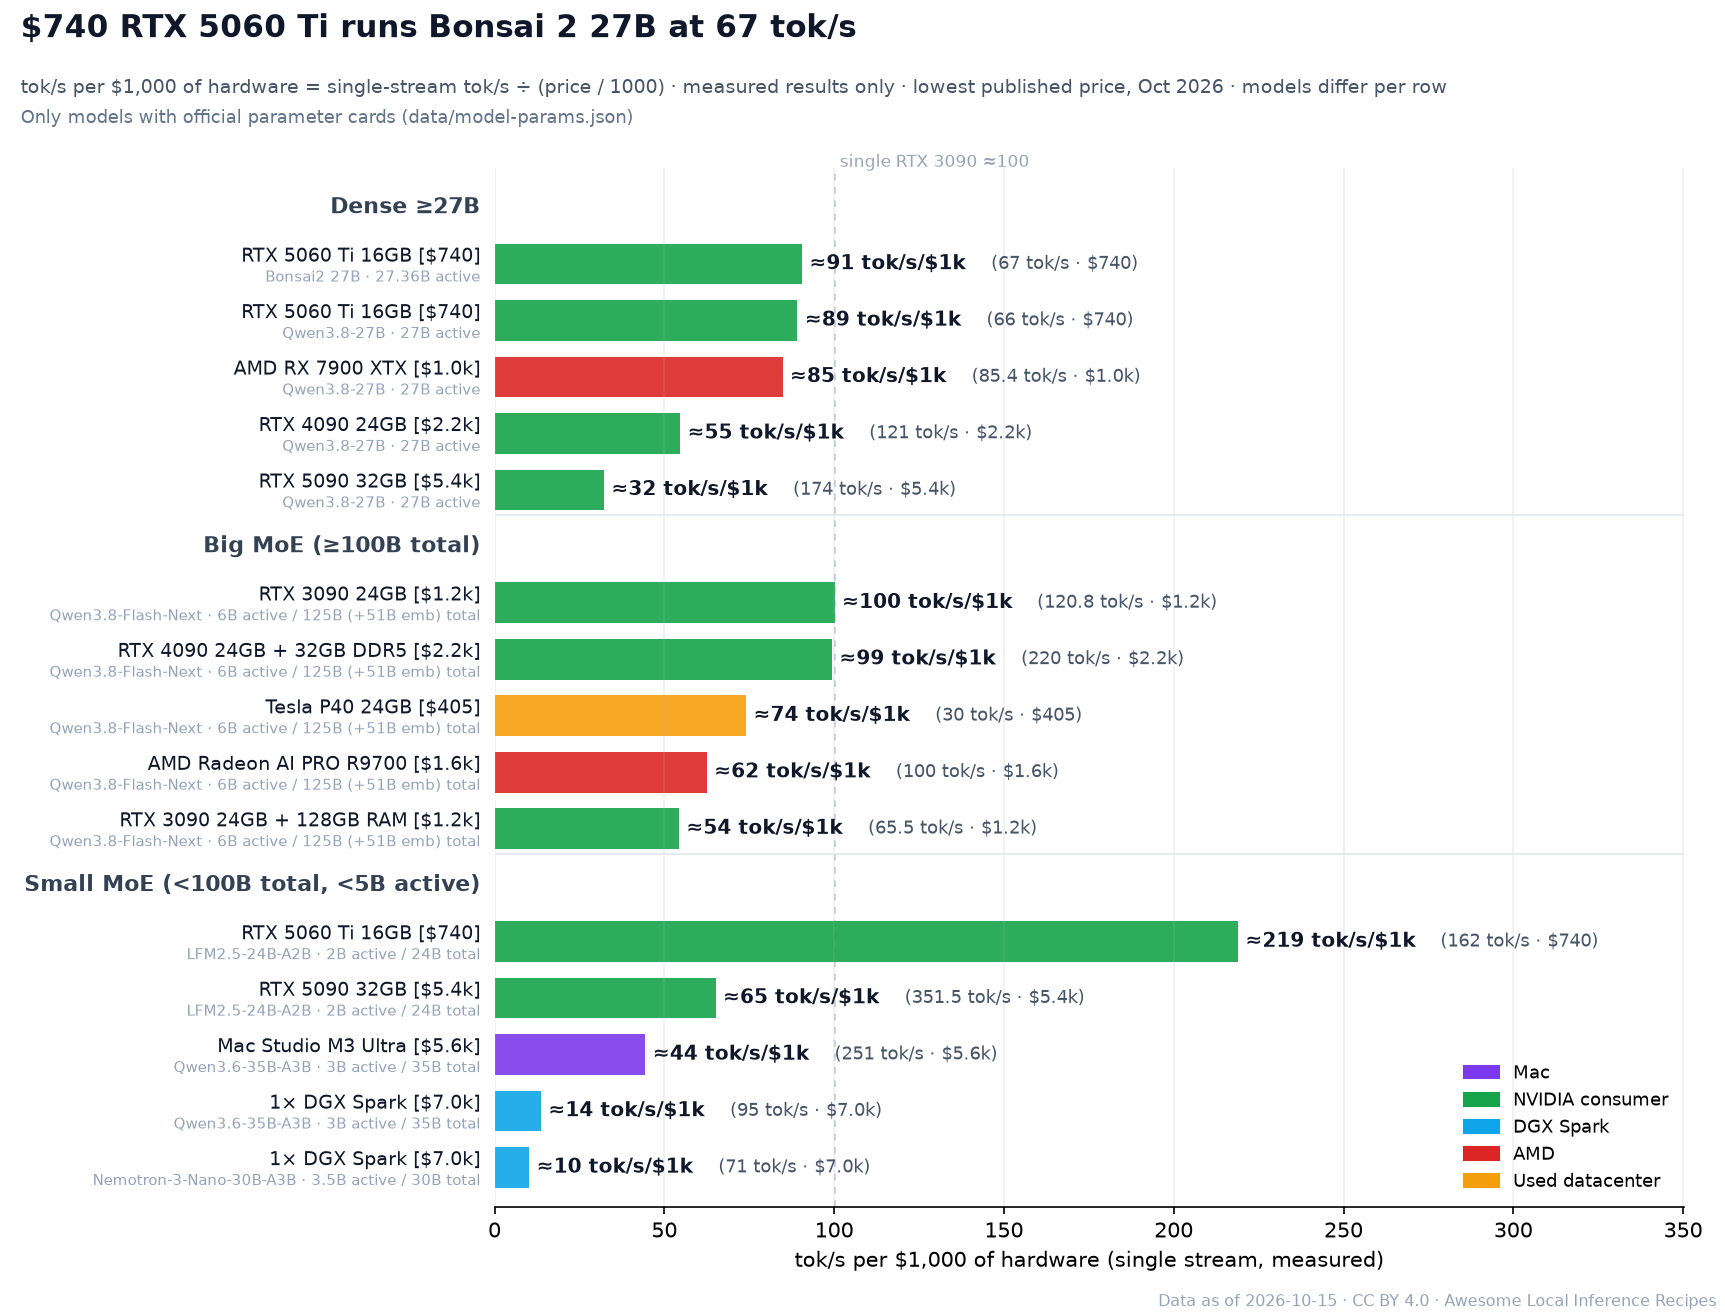
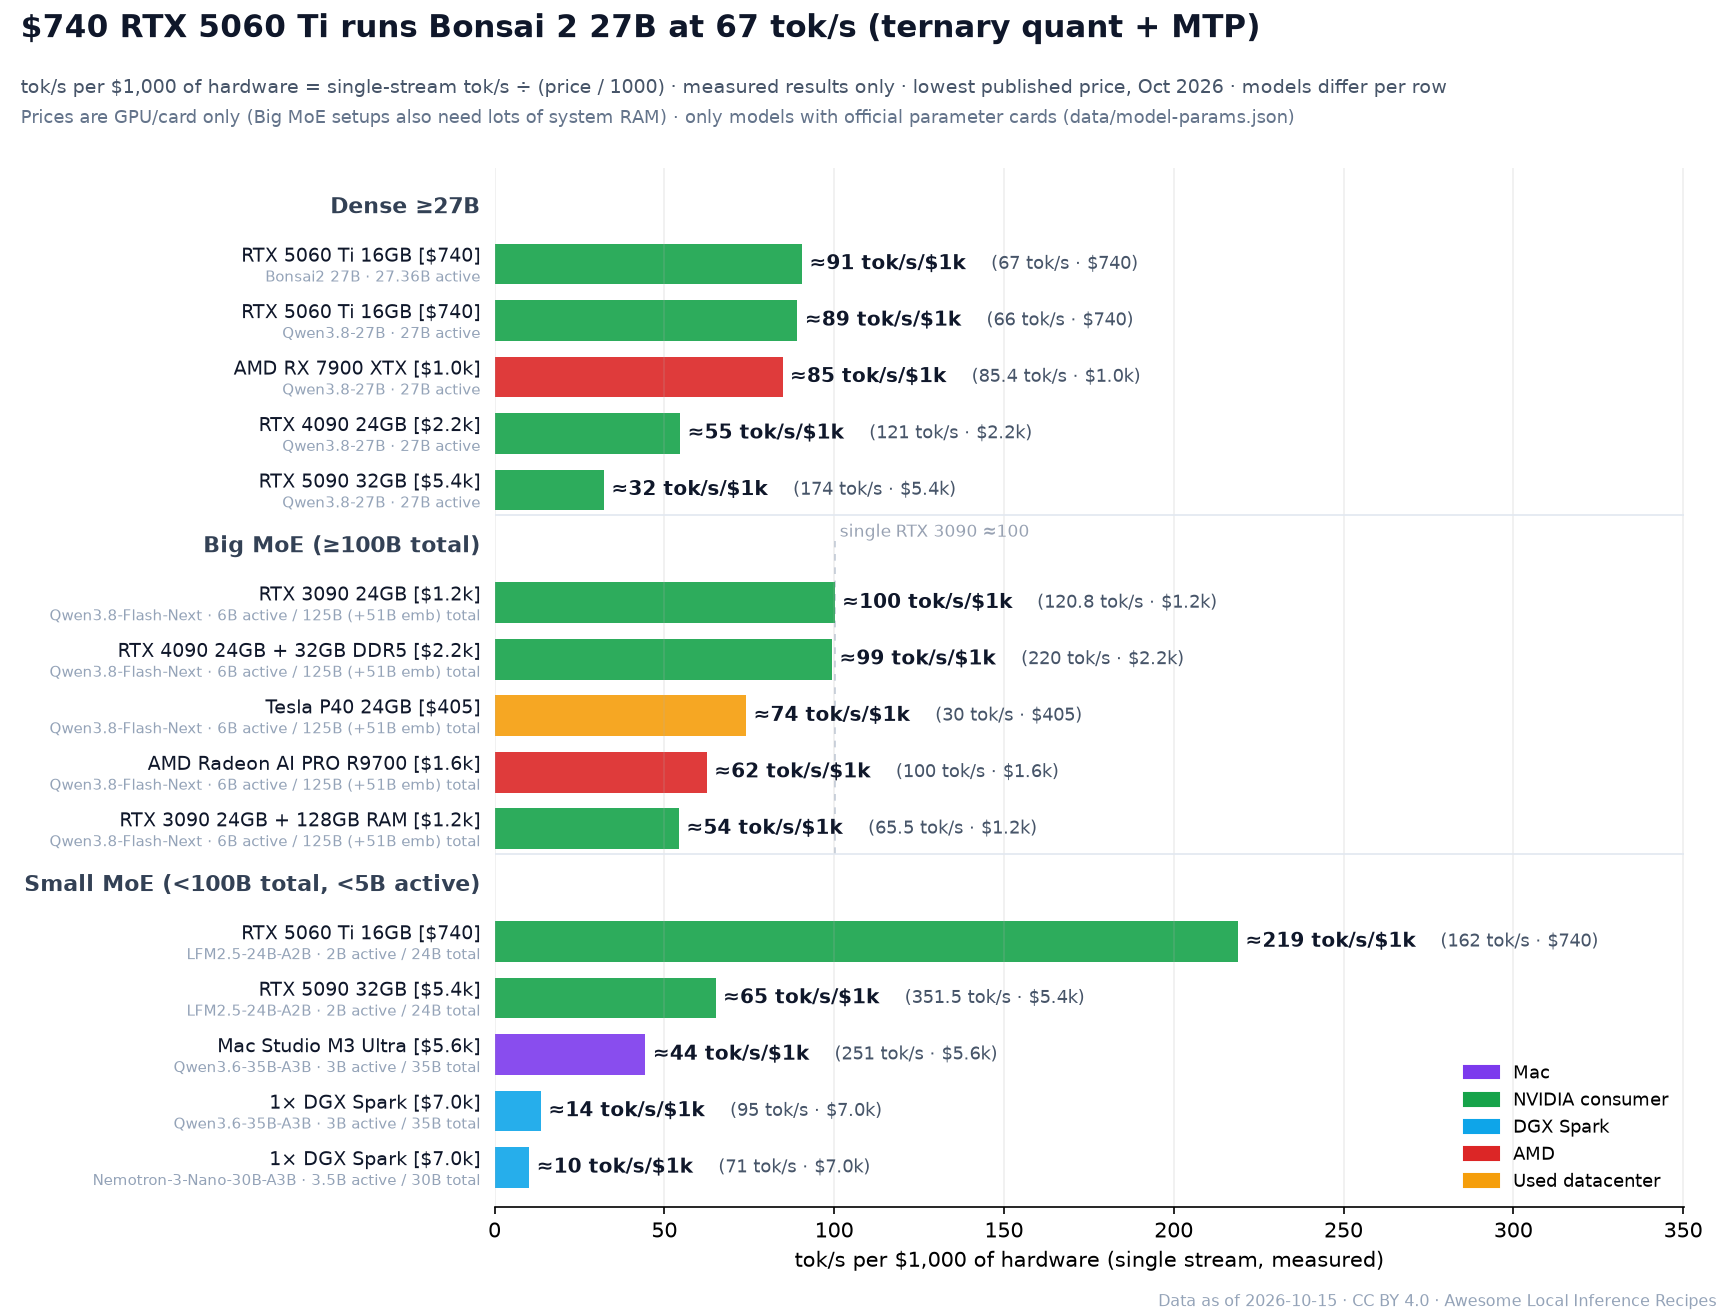
hero v5: GPU-only price note, title flags ternary quant + MTP, 3090 baseline drawn only in Big MoE group, missing model-params is a warning not failure

Changed region(s): [[0.0, 0.0624, 0.3687, 0.0936], [0.3994, 0.0624, 0.7374, 0.0936], [0.4916, 0.0, 0.7374, 0.0312]]

diff --git a/scripts/gen_hero.py b/scripts/gen_hero.py
@@ -68,19 +68,20 @@ GROUPS=[('dense',lambda m:m['arch']=='dense' and m['total_b']>=27),
         ('mid',lambda m:m['arch']=='moe' and m['total_b']<100 and m['active_b']>=5),
         ('small',lambda m:m['arch']=='moe' and m['total_b']<100 and m['active_b']<5)]
 GT={'en':dict(dense='Dense ≥27B',big='Big MoE (≥100B total)',mid='Mid MoE (<100B total, ≥5B active)',small='Small MoE (<100B total, <5B active)',act='{a} active',tot='{a} active / {t} total',
-              t='{p} {u}{hw} runs {m} at {tok:g} tok/s',only='Only models with official parameter cards (data/model-params.json)'),
+              t='{p} {u}{hw} runs {m} at {tok:g} tok/s',flag=' ({f})',tern='ternary quant',mtp='MTP',sep=' + ',only='Prices are GPU/card only (Big MoE setups also need lots of system RAM) · only models with official parameter cards (data/model-params.json)'),
     'zh-CN':dict(dense='稠密 ≥27B',big='大 MoE（总参数 ≥100B）',mid='中 MoE（总参数 <100B，激活 ≥5B）',small='小 MoE（总参数 <100B，激活 <5B）',act='激活 {a}',tot='激活 {a} / 总 {t}',
-              t='{p} 的{u}{hw} 跑 {m}：{tok:g} tok/s',only='仅含有官方参数卡的模型（data/model-params.json）'),
+              t='{p} 的{u}{hw} 跑 {m}：{tok:g} tok/s',flag='（{f}）',tern='三值量化',mtp='MTP',sep=' + ',only='价格仅含显卡（大 MoE 配置还需大量系统内存）· 仅含有官方参数卡的模型（data/model-params.json）'),
     'ja':dict(dense='Dense ≥27B',big='大型 MoE（総パラメータ ≥100B）',mid='中型 MoE（総 <100B、アクティブ ≥5B）',small='小型 MoE（総 <100B、アクティブ <5B）',act='アクティブ {a}',tot='アクティブ {a} / 総 {t}',
-              t='{p} の{u}{hw} で {m} が {tok:g} tok/s',only='公式パラメータカードのあるモデルのみ（data/model-params.json）')}
+              t='{p} の{u}{hw} で {m} が {tok:g} tok/s',flag='（{f}）',tern='3 値量子化',mtp='MTP',sep=' + ',only='価格は GPU 本体のみ（大型 MoE 構成は大容量のメインメモリも必要）· 公式パラメータカードのあるモデルのみ（data/model-params.json）')}
 PER=5
 def hero(lang):
     t=TX[lang]; h=HT[lang]; g=GT[lang]
     meas=[r for r in U if r['_m'] and params(r)]
-    rows=[]  # (kind, payload)
+    rows=[]; span=None  # (kind, payload); span = row-index range of Big MoE group
     for key,ok in GROUPS:
         rs=sorted([r for r in meas if ok(params(r))],key=lambda r:(-r['_v'],r['id']))[:PER]
         if rs: rows.append(('h',g[key])); rows+= [('r',r) for r in rs]
+        if rs and key=='big': span=(len(rows)-len(rs)-1,len(rows)-1)
     dense=[x for k,x in rows if k=='r' and params(x)['arch']=='dense']
     first=min(dense or [x for k,x in rows if k=='r'],key=lambda r:(-r['_v'],r['id']))
     n=len(rows); H=1.2+.42*n; fig,ax=plt.subplots(figsize=(11.5,H),dpi=150)
@@ -100,12 +101,17 @@ def hero(lang):
         ax.text(-.012,y-.24,f"{clean(r['model'],26)} · {pa}",transform=ax.get_yaxis_transform(),ha='right',va='center',fontsize=7.3,color='#94a3b8')
     ax.set_yticks([]); ax.set_ylim(-.7,n-.3)
     b=[r for r in meas if re.fullmatch(r'(单 )?RTX 3090( 24GB)?',clean(r['hardware'],80))]
-    if b:
-        bv=max(r['_v'] for r in b); ax.axvline(bv,ls=(0,(4,4)),lw=.8,color='#b6c0cf',alpha=.8,zorder=0)
-        ax.text(bv,n-.35,' '+h['base'].format(v=bv),fontsize=8,color='#98a2b3',va='bottom')
+    if b and span:  # 3090 baseline is only comparable to the Big MoE rows (same offload regime); draw it inside that group
+        bv=max(r['_v'] for r in b); y0,y1=n-1-span[1]-.45,n-1-span[0]+.1
+        ax.vlines(bv,y0,y1,linestyles=(0,(4,4)),lw=.8,color='#b6c0cf',alpha=.8,zorder=0)
+        ax.text(bv,y1,' '+h['base'].format(v=bv),fontsize=8,color='#98a2b3',va='bottom')
     ax.set_xlim(0,vmax*1.6); ax.set_xlabel(t['h_x'],fontsize=10)
     hw=clean(first['hardware'],40); hw=re.sub(r'^(单 )','',hw)
-    fig.suptitle(g['t'].format(p=money(first['hardware_cost_usd']),u=h['used'] if _used(first) else '',hw=re.sub(r' \d+GB$','',hw),m=params(first)['label'],tok=first['tok_s']),x=.012,y=.99,ha='left',fontsize=15,fontweight='bold',color='#0f172a')
+    fl=[]
+    if params(first).get('quant_native')=='ternary' or 'ternary' in first.get('tags',[]): fl.append(g['tern'])
+    if 'MTP' in first.get('tags',[]): fl.append(g['mtp'])
+    ftxt=g['flag'].format(f=g['sep'].join(fl)) if fl else ''
+    fig.suptitle(g['t'].format(p=money(first['hardware_cost_usd']),u=h['used'] if _used(first) else '',hw=re.sub(r' \d+GB$','',hw),m=params(first)['label'],tok=first['tok_s'])+ftxt,x=.012,y=.99,ha='left',fontsize=15,fontweight='bold',color='#0f172a')
     fig.text(.012,1-.62/H,h['sub'],ha='left',fontsize=9,color='#475569')
     fig.text(.012,1-.82/H,g['only'],ha='left',fontsize=8.5,color='#64748b')
     fig.text(.995,.006,h['note'].format(d=_asof()),ha='right',fontsize=7.5,color='#94a3b8')

diff --git a/tests/test_model_params.py b/tests/test_model_params.py
@@ -1,4 +1,4 @@
-import json, re, unittest
+import warnings, json, re, unittest
 from pathlib import Path
 R = Path(__file__).resolve().parent.parent
 class ModelParams(unittest.TestCase):
@@ -26,5 +26,7 @@ class ModelParams(unittest.TestCase):
         # every measured priced text row either maps to a card or is knowingly excluded
         miss = sorted({r['model'] for r in self.D if r['category'] == 'text' and r['tok_s'] and r['hardware_cost_usd']
                        and r['source_level'] == '实测' and not self.match(r['model'])})
-        self.assertTrue(all(re.search(r'REAP', m) for m in miss), miss)
+        # warning, not failure: new data PRs may add models before a card exists (they are just left off the hero)
+        miss = [m for m in miss if not re.search(r'REAP', m)]
+        if miss: warnings.warn(f'models missing from data/model-params.json (omitted from hero): {miss}')
 if __name__ == '__main__': unittest.main()
